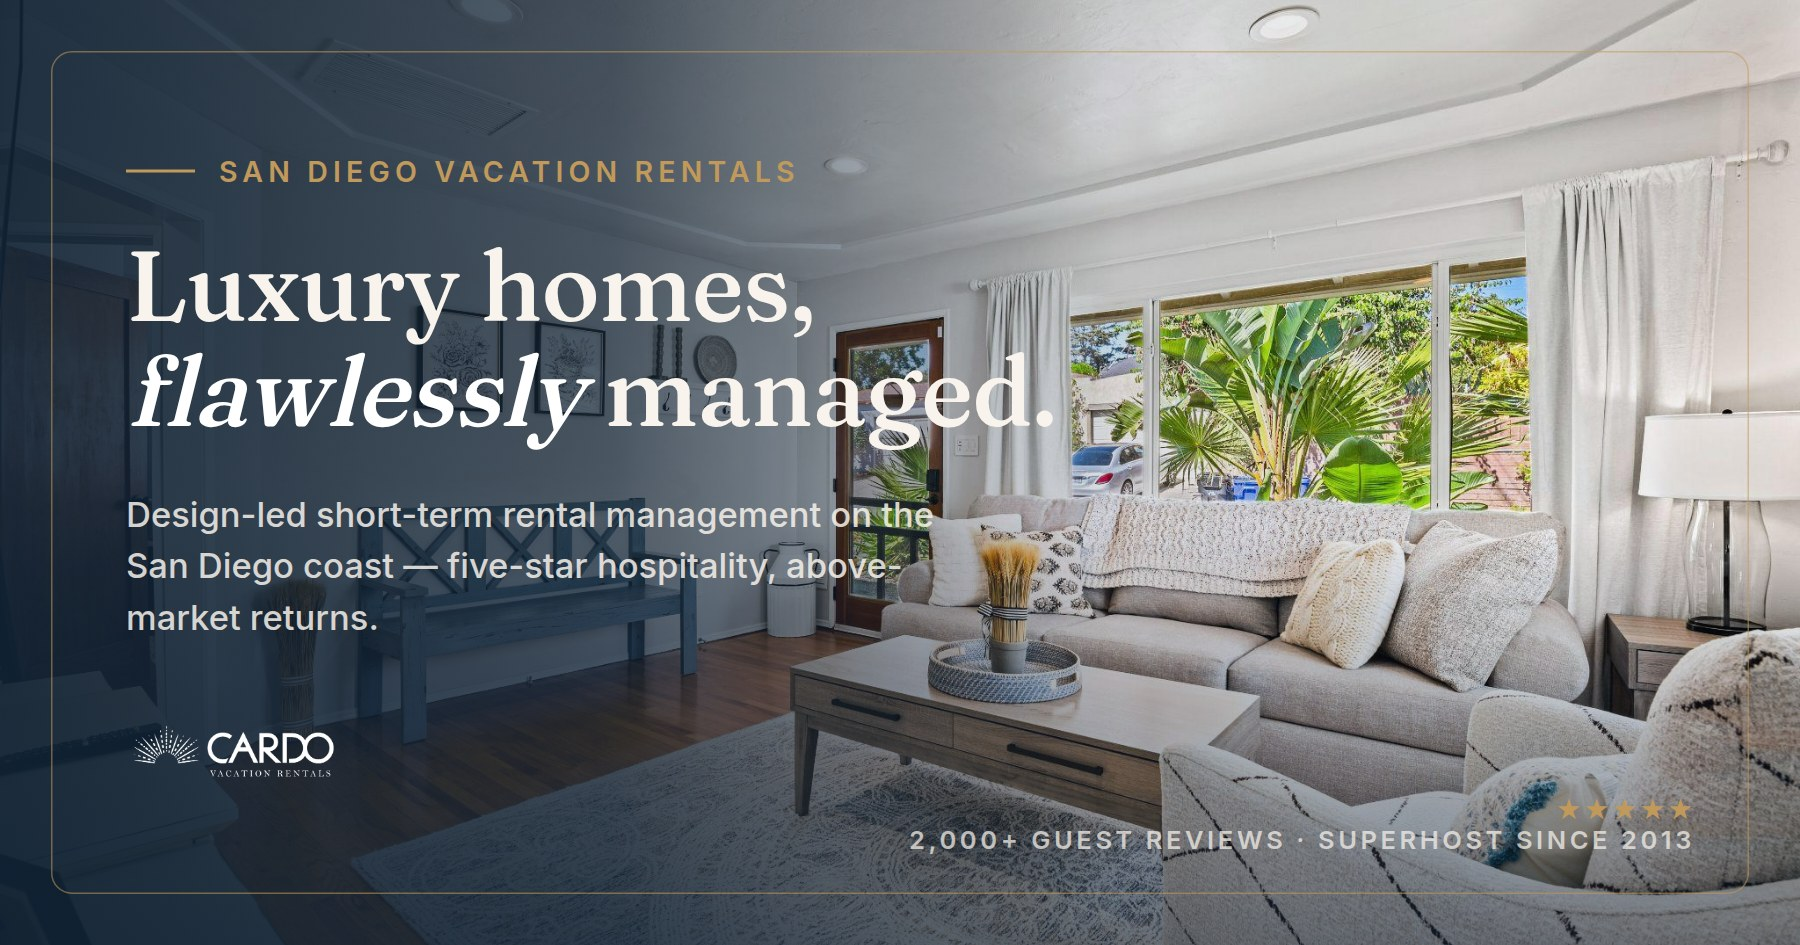
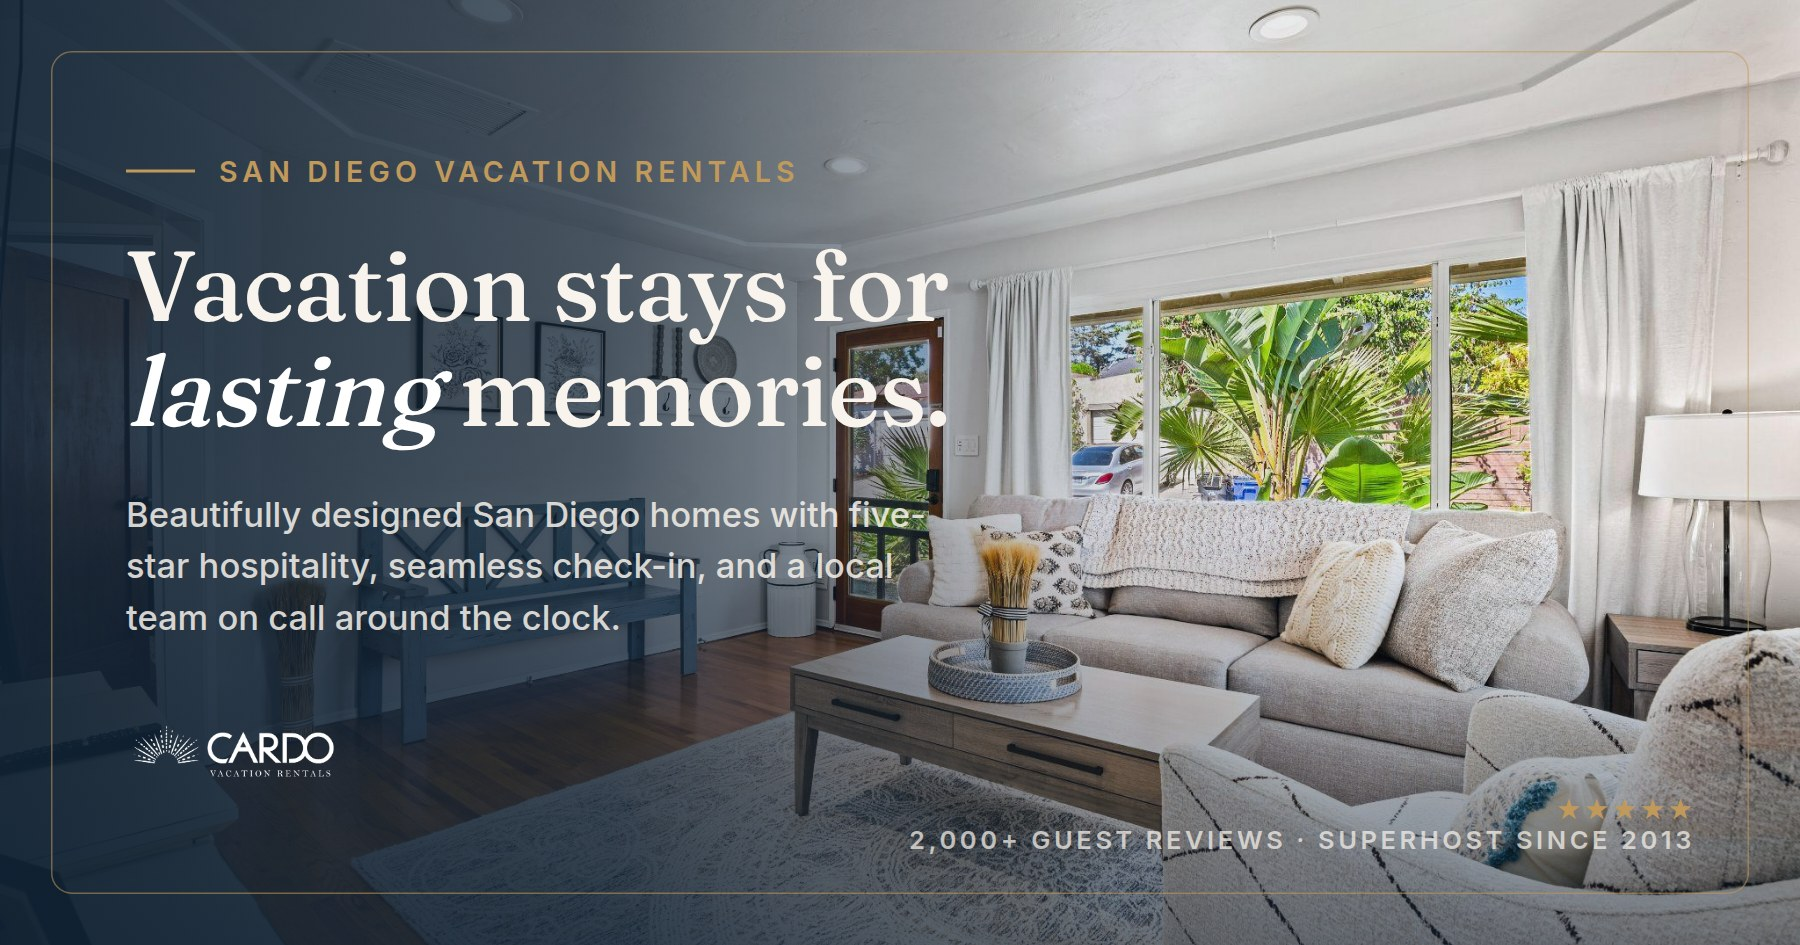
Internal linking + owner splashes + guest-facing share card (#32)
Internal-linking pass (case study ↔ neighborhood ↔ blog), a held "Manage My Home" brand splash and a branded /portal owner-login splash, and a guest-facing default link-preview card ("Vacation stays for lasting memories").

Changed region(s): [[0.0622, 0.2455, 0.5911, 0.491], [0.0622, 0.5217, 0.5289, 0.6138], [0.0622, 0.6444, 0.3422, 0.6751]]

diff --git a/src/styles/menu.css b/src/styles/menu.css
@@ -178,4 +178,13 @@ html.menu-open { overflow: hidden; }
 .navsplash.is-shown .menu__splash-reviews { opacity: 1; transform: none; }
 .navsplash__hint { display: block; margin-top: 26px; font-size: .9rem; letter-spacing: .04em; color: var(--gold); opacity: 0; transition: opacity .6s var(--ease) .92s; }
 .navsplash.is-shown .navsplash__hint { opacity: 1; }
+/* Auto-continue progress bar — only when the splash is HELD after a click
+   (.is-active), not during the hover preview. Fill duration must match HOLD_MS
+   in Menu.astro (4200ms). */
+.navsplash__bar { width: min(280px, 60vw); height: 3px; margin: 30px auto 0; border-radius: 999px; background: rgba(248,243,236,.16); overflow: hidden; opacity: 0; transition: opacity .5s var(--ease) .92s; }
+.navsplash.is-shown .navsplash__bar { opacity: 1; }
+.navsplash__bar i { display: block; height: 100%; width: 0; border-radius: inherit; background: linear-gradient(90deg, var(--gold), var(--rose)); }
+.navsplash.is-active .navsplash__bar i { animation: navsplash-fill 4200ms linear forwards; }
+.navsplash.is-active { cursor: pointer; }
+@keyframes navsplash-fill { from { width: 0; } to { width: 100%; } }
 @media (prefers-reduced-motion: reduce) { .navsplash { display: none; } }